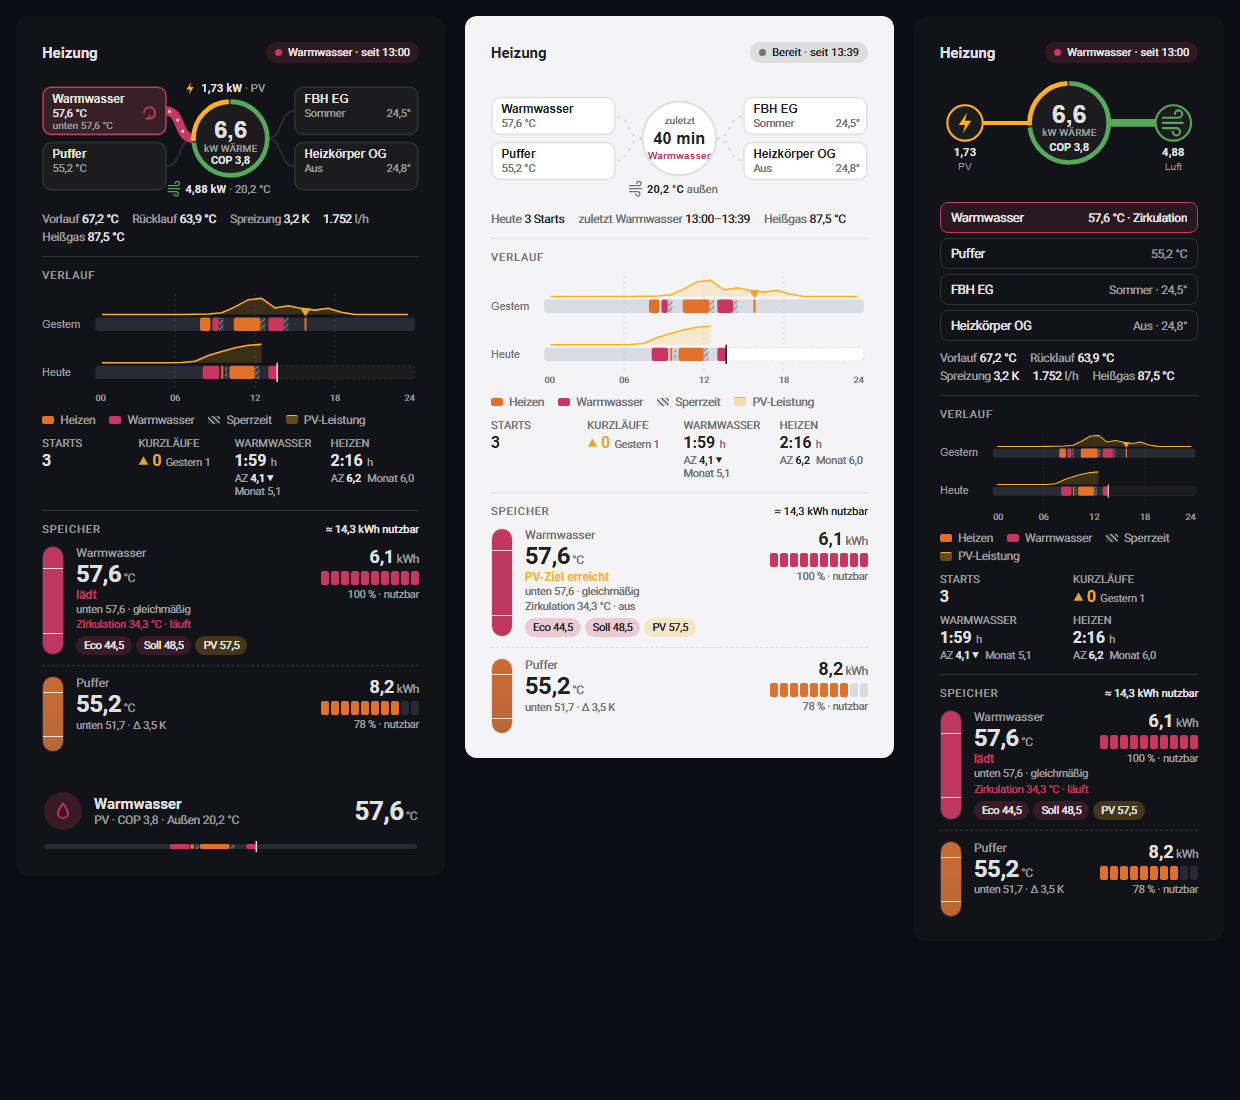
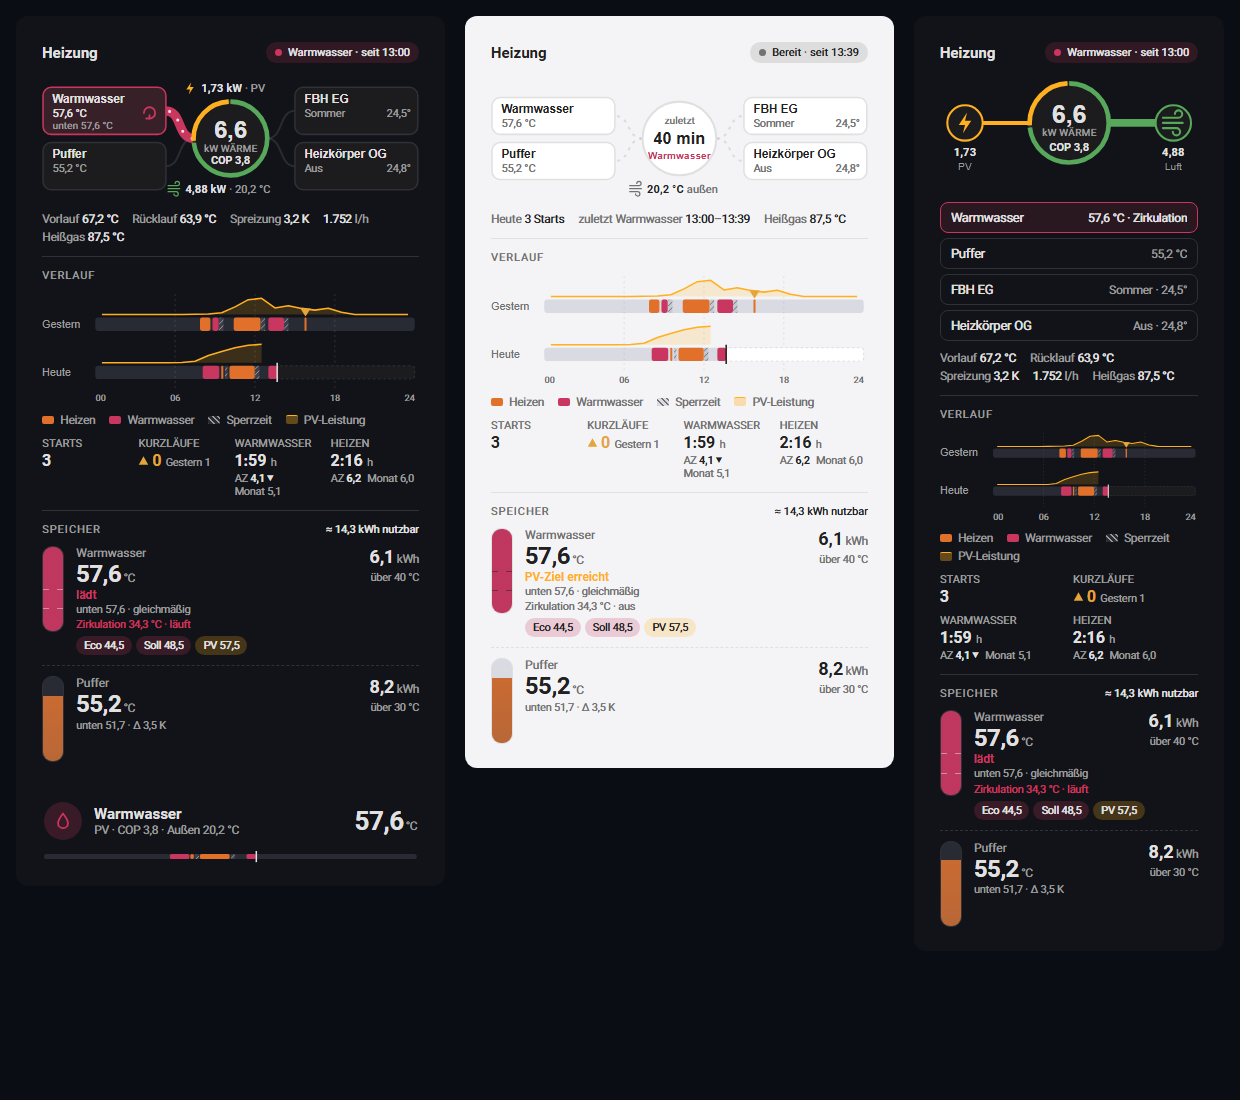
Heat Origin 0.6.0: tanks as level gauges
Every tank has the same height and fills from the usable minimum to the
highest mark, the other marks as notches. The cells and the percentage
are gone; the energy reads as kWh above the usable minimum.

diff --git a/src/heat-origin-card.ts b/src/heat-origin-card.ts
@@ -997,21 +997,24 @@ export class HeatOriginCard extends LitElement {
       const mean = top !== undefined && bottom !== undefined ? (top + bottom) / 2 : top;
       const floor = store.usable_min ?? (store.kind === "hot_water" ? 40 : 30);
       const ceiling = store.marks?.pv ?? store.marks?.max ?? store.marks?.target ?? 60;
+      // The tank is a level gauge: empty at the usable minimum, full at the highest mark.
+      const span = ceiling - floor;
+      const level = (t: number) => (span > 0 ? Math.min(1, Math.max(0, (t - floor) / span)) : 0);
+      const pct = mean !== undefined ? level(mean) : undefined;
       let energy: TemplateResult | typeof nothing = nothing;
       if (store.volume && mean !== undefined) {
         anyVolume = true;
         const usable = Math.max(0, (store.volume * 1.163 * (mean - floor)) / 1000);
         totalUsable += usable;
-        const pct = ceiling > floor ? Math.min(1, Math.max(0, (mean - floor) / (ceiling - floor))) : 0;
-        const filled = Math.round(pct * 10);
         energy = html`<div class="store-energy">
           <span class="store-kwh">${this._one(usable)}<small>kWh</small></span>
-          <span class="cells" role="img" aria-label="${formatNumber(pct * 100, locale, 0)} %">
-            ${Array.from({ length: 10 }, (_, i) => html`<span style=${i < filled ? `background:${tone}` : ""}></span>`)}
-          </span>
-          <span class="store-pct">${formatNumber(pct * 100, locale, 0)} % · ${this._t("stores.usable")}</span>
+          <span class="store-above">${this._t("stores.above", { t: formatNumber(floor, locale, floor % 1 ? 1 : 0) })}</span>
         </div>`;
       }
+      const ticks = (["eco", "target", "pv", "max"] as const)
+        .map((k) => store.marks?.[k])
+        .filter((v): v is number => v !== undefined && v > floor && v < ceiling)
+        .map((v) => html`<span class="tick" style="bottom:${(level(v) * 100).toFixed(1)}%"></span>`);
       const layering = top !== undefined && bottom !== undefined ? top - bottom : undefined;
       const sub =
         bottom !== undefined
@@ -1036,10 +1039,11 @@ export class HeatOriginCard extends LitElement {
         });
 
       return html`<div class="store" @click=${() => this._moreInfo(store.top)}>
-        <div class="tank" role="img" aria-label="${store.name}"
-          style="background: linear-gradient(to top, ${ramp(bottom ?? top ?? 25, tone)}, ${ramp(top ?? 25, tone)})">
-          ${top !== undefined ? html`<span class="probe" style="top: 20%"></span>` : nothing}
-          ${bottom !== undefined ? html`<span class="probe" style="top: 80%"></span>` : nothing}
+        <div class="tank" role="img" aria-label="${store.name}${pct !== undefined ? `: ${formatNumber(pct * 100, locale, 0)} %` : ""}">
+          ${pct !== undefined
+            ? html`<span class="fill" style="height:${(pct * 100).toFixed(1)}%; background: linear-gradient(to top, ${ramp(bottom ?? top ?? 25, tone)}, ${ramp(top ?? 25, tone)})"></span>`
+            : nothing}
+          ${ticks}
         </div>
         <div class="store-info">
           <span class="store-name">${store.name}</span>

diff --git a/src/styles.ts b/src/styles.ts
@@ -385,7 +385,7 @@ export const cardStyles = css`
     flex-basis: 100%;
   }
 
-  /* Storage: the number first, the tank as its layering, the usable heat as cells. */
+  /* Storage: the number first; the tank a level gauge of one height for every store. */
   .store {
     display: grid;
     grid-template-columns: 22px minmax(0, 1fr) auto;
@@ -401,19 +401,46 @@ export const cardStyles = css`
 
   .tank {
     grid-row: 1 / span 2;
-    align-self: stretch;
-    min-height: 74px;
-    border-radius: 11px;
+    align-self: start;
+    height: 84px;
+    border-radius: 10px;
     border: 1.5px solid var(--ho-hairline);
+    background: var(--ho-track);
     position: relative;
     overflow: hidden;
   }
 
-  .tank .probe {
+  .tank .fill {
     position: absolute;
     left: 0;
     right: 0;
-    border-top: 1.5px solid rgba(255, 255, 255, 0.8);
+    bottom: 0;
+  }
+
+  /* Marks as notches on both walls, readable over the filling and the empty part alike. */
+  .tank .tick {
+    position: absolute;
+    left: 0;
+    right: 0;
+    height: 0;
+  }
+
+  .tank .tick::before,
+  .tank .tick::after {
+    content: "";
+    position: absolute;
+    top: -0.75px;
+    width: 6px;
+    border-top: 1.5px solid var(--ho-ink);
+    opacity: 0.5;
+  }
+
+  .tank .tick::before {
+    left: 0;
+  }
+
+  .tank .tick::after {
+    right: 0;
   }
 
   .store-info {
@@ -481,19 +508,7 @@ export const cardStyles = css`
     margin-left: 2px;
   }
 
-  .cells {
-    display: grid;
-    grid-template-columns: repeat(10, 8px);
-    gap: 2px;
-    height: 14px;
-  }
-
-  .cells span {
-    border-radius: 2px;
-    background: var(--ho-track);
-  }
-
-  .store-pct {
+  .store-above {
     font-family: var(--ho-mono);
     font-size: 10.5px;
     color: var(--ho-muted);

diff --git a/tests/render.test.ts b/tests/render.test.ts
@@ -189,8 +189,13 @@ describe("storage", () => {
     const { root } = await mount(FULL_CONFIG);
     const stores = [...root.querySelectorAll(".store")].map((s) => text(s));
     expect(stores[0]).toContain("Warmwasser 57,6 °C lädt unten 57,6 · gleichmäßig");
-    expect(stores[0]).toContain("6,1 kWh");
-    expect(stores[0]).toContain("100 %");
+    expect(stores[0]).toContain("6,1 kWh über 40 °C");
+    expect(stores[0]).not.toContain("%");
+    expect(stores[1]).toContain("über 30 °C");
+    // Every tank has the same height; its filling runs from the usable minimum to the highest mark.
+    const fills = [...root.querySelectorAll(".tank .fill")].map((f) => (f as HTMLElement).style.height);
+    expect(fills).toEqual(["100%", "78.2%"]);
+    expect(root.querySelectorAll(".tank .tick").length).toBe(2);
     expect(stores[0]).toContain("PV 57,5");
     expect(stores[1]).toContain("unten 51,7 · Δ 3,5 K");
     expect(stores[1]).toContain("8,2 kWh");

diff --git a/src/localize.ts b/src/localize.ts
@@ -17,6 +17,7 @@ const en: Table = {
   "cop.az": "PF",
   "cop.jaz": "SPF",
   "stores.usable": "usable",
+  "stores.above": "above {t} °C",
   "stores.circulation_on": "running",
   "stores.circulation_off": "off",
   "stores.even": "even",
@@ -140,6 +141,7 @@ const de: Table = {
   "cop.az": "AZ",
   "cop.jaz": "JAZ",
   "stores.usable": "nutzbar",
+  "stores.above": "über {t} °C",
   "stores.circulation_on": "läuft",
   "stores.circulation_off": "aus",
   "stores.even": "gleichmäßig",

diff --git a/README.md b/README.md
@@ -4,7 +4,7 @@ A heat pump card for Home Assistant. Where the heat comes from, where it goes, a
 
 - **Heat flow** — the heat pump in the middle, the stores on its left and the heating circuits on its right; electricity and ambient heat stand as one line each above and below it. Line widths follow the kilowatts; the electricity wears the colour of its source as in Power Origin (sun, battery, grid), the ambient heat is green, and the ring shows both shares. Circuits show their own state, room temperature and, optionally, flow, return and spread. A running circulation pump puts a small loop mark on the hot water. Standing still, the centre tells the last run. In a column narrower than 340 px the takers become a list.
 - **Day band** — yesterday and today as 24-hour bands coloured by what the heat pump did, with PV power above. Starts, short runs and running time are counted from the history; hover a short-run marker for its time. Under the running times of heating and hot water stands the day's performance factor next to the month's, with a small arrow where they part by half a point or more. A notice appears only when the heat pump cycles.
-- **Storage** — each store's temperature first, the tank drawn as its layering between the sensors, the set-points you enter as marks, and with the volume the usable heat in kWh.
+- **Storage** — each store's temperature first, the tank as a level gauge of the same height for every store (empty at the usable minimum, full at the highest mark, the other marks as notches), and with the volume the heat above the usable minimum in kWh.
 - **Compact** — one row: the state, the temperature that matters in it, and today as a thin band.
 
 Everything shown is measured. Set-points are entered as numbers in the card, because many integrations report them wrongly.
